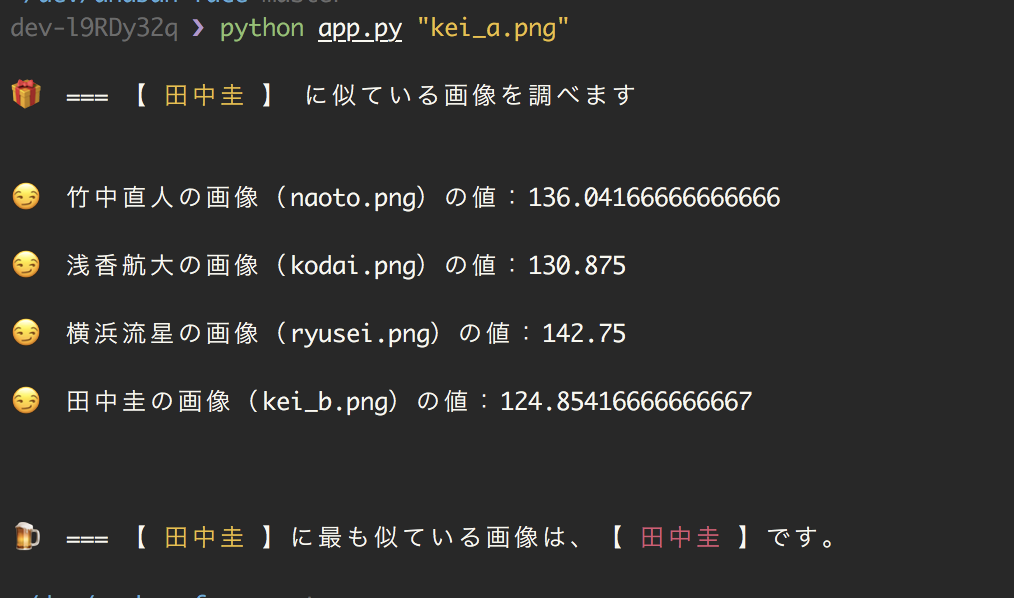
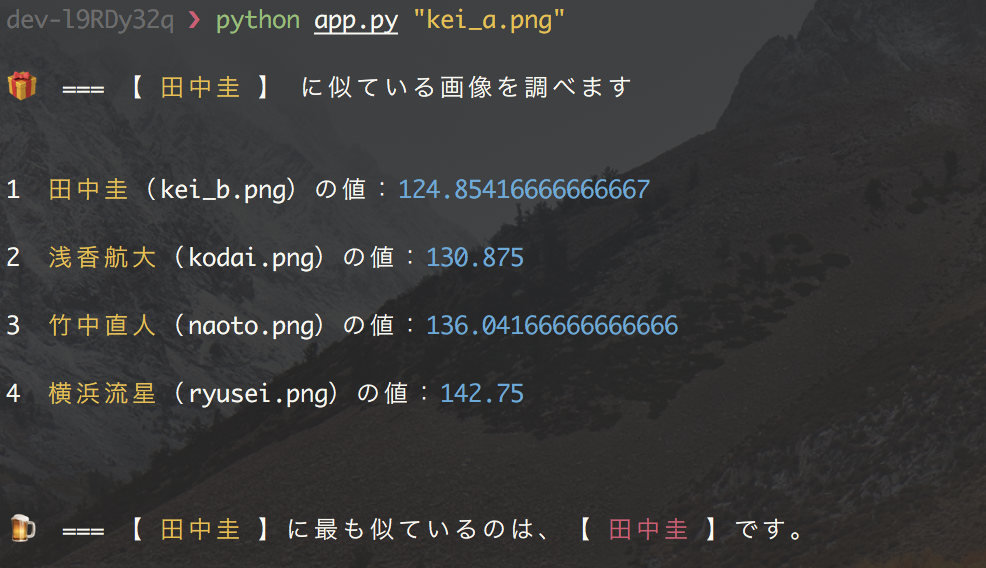
capture

diff --git a/app.py b/app.py
@@ -56,24 +56,29 @@ class AnabanFace:
 
 
 				cast_name = self.get_cast_name_by_image(file_name)
-				s = '\n😏　{0}の画像（{1}）の値：{2}'.format(cast_name, file_name, ret)
-				print(s)
+				#s = '\n😏　{0}の画像（{1}）の値：{2}'.format(cast_name, file_name, ret)
+				#print(s)
 
 				data = {
-					'cast_name': cast_name, 
+					'cast_name': cast_name,
+					'file_name': file_name,
 					'similarity': ret
 				}
 				
 				results.append(data)
 
 		if len(results) >= 1:
+
+			results = sorted(results, key=lambda a: a['similarity'])
+
 			most_similar_data = results[0]
 
-			for r in results:
-				if r['similarity'] < most_similar_data['similarity']:
-					most_similar_data = r
+			for i, r in enumerate(results):
+				s = '\n{0}　{1}（{2}）の値：{3}'.format((i + 1), Pycolor.YELLOW + r['cast_name'] + Pycolor.END, r['file_name'], Pycolor.BLUE + str(r['similarity']) + Pycolor.END)
+				print(s)
+
 			
-			s = '\n\n\n🍺　=== 【 {0} 】に最も似ている画像は、【 {1} 】です。'.format(Pycolor.YELLOW + self.get_cast_name_by_image(self.target_file_name) + Pycolor.END, Pycolor.RED + most_similar_data['cast_name'] + Pycolor.END)
+			s = '\n\n\n🍺　=== 【 {0} 】に最も似ているのは、【 {1} 】です。'.format(Pycolor.YELLOW + self.get_cast_name_by_image(self.target_file_name) + Pycolor.END, Pycolor.RED + most_similar_data['cast_name'] + Pycolor.END)
 			print(s)
 
 
